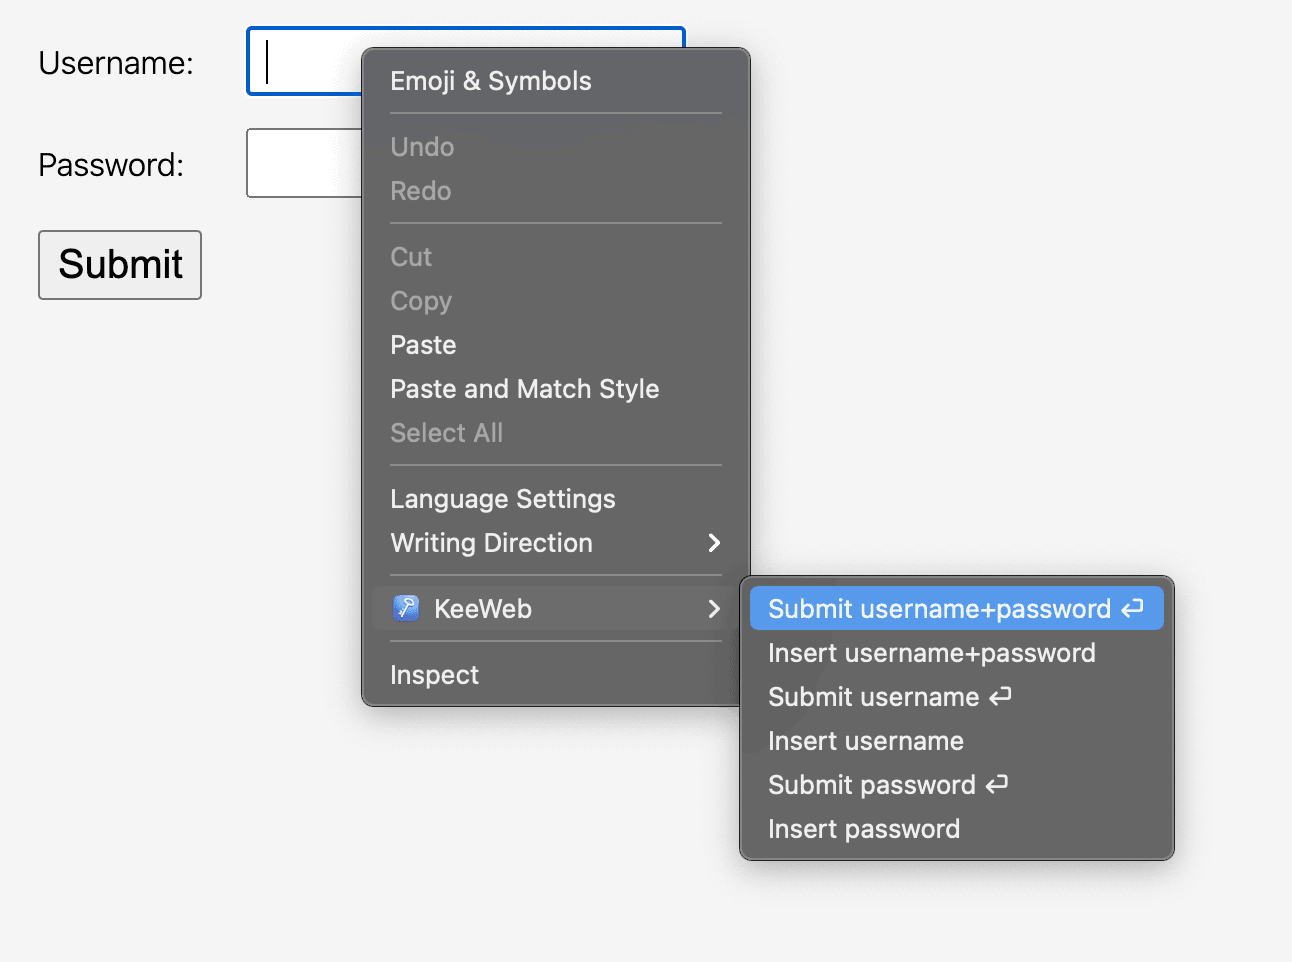
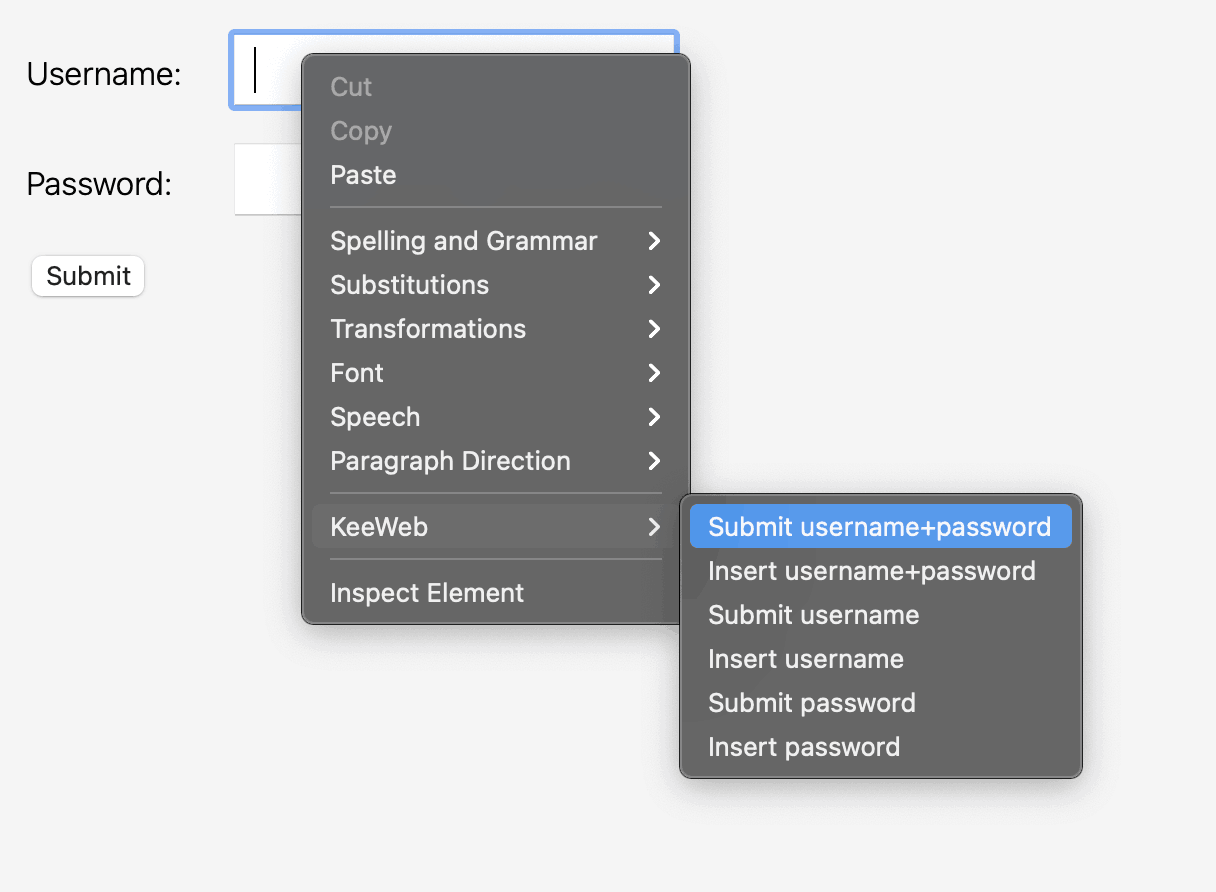
safari customizations

Changed region(s): [[0.1875, 0.0, 0.9375, 0.9081], [0.0, 0.1513, 0.1562, 0.333], [0.0312, 0.0605, 0.1562, 0.0908]]

diff --git a/src/background/ui.ts b/src/background/ui.ts
@@ -1,4 +1,5 @@
 import { runCommand } from './commands';
+import { supportsUnicodeMenus } from 'common/features';
 
 export function createUIMenus(): void {
     chrome.contextMenus.onClicked.addListener(async (e, tab) => {
@@ -11,6 +12,8 @@ export function createUIMenus(): void {
         await runCommand({ command, tab, url, frameId });
     });
 
+    const submitSuffix = supportsUnicodeMenus ? ' ⏎' : '';
+
     chrome.contextMenus.create(
         {
             id: 'keeweb-options',
@@ -21,7 +24,7 @@ export function createUIMenus(): void {
             chrome.contextMenus.create({
                 id: 'submit-username-password',
                 parentId: 'keeweb-options',
-                title: `${chrome.i18n.getMessage('cmdSubmitUsernamePassword')} ⏎`,
+                title: `${chrome.i18n.getMessage('cmdSubmitUsernamePassword')}${submitSuffix}`,
                 contexts: ['editable']
             });
             chrome.contextMenus.create({
@@ -33,7 +36,7 @@ export function createUIMenus(): void {
             chrome.contextMenus.create({
                 id: 'submit-username',
                 parentId: 'keeweb-options',
-                title: `${chrome.i18n.getMessage('cmdSubmitUsername')} ⏎`,
+                title: `${chrome.i18n.getMessage('cmdSubmitUsername')}${submitSuffix}`,
                 contexts: ['editable']
             });
             chrome.contextMenus.create({
@@ -45,7 +48,7 @@ export function createUIMenus(): void {
             chrome.contextMenus.create({
                 id: 'submit-password',
                 parentId: 'keeweb-options',
-                title: `${chrome.i18n.getMessage('cmdSubmitPassword')} ⏎`,
+                title: `${chrome.i18n.getMessage('cmdSubmitPassword')}${submitSuffix}`,
                 contexts: ['editable']
             });
             chrome.contextMenus.create({

diff --git a/src/options/components/usage.tsx b/src/options/components/usage.tsx
@@ -1,14 +1,22 @@
 import { FunctionComponent } from 'preact';
 import { res } from 'options/utils';
+import { canEditShortcuts } from 'common/features';
+import { model } from 'options/settings-model';
 
 const Usage: FunctionComponent = () => {
+    const defaultShortcut = model.shortcuts.find((cmd) => cmd.name === 'submit-auto')?.shortcut;
+
     return (
         <>
             <h2 id="usage">{res('optionsUsage')}</h2>
             <p>{res('optionsUsageIntro')}</p>
             <p>{res('optionsUsageButton')}</p>
             <img srcset="../img/button.png 2x" alt="button" />
-            <p>{res('optionsUsageShortcut')}</p>
+            <p>
+                {canEditShortcuts
+                    ? res('optionsUsageShortcut')
+                    : res('optionsUsageShortcutNoChange', defaultShortcut)}
+            </p>
             <p>{res('optionsUsageMenu')}</p>
             <img srcset="../img/menu.png 2x" alt="button" />
         </>

diff --git a/src/options/components/shortcuts.tsx b/src/options/components/shortcuts.tsx
@@ -1,6 +1,7 @@
 import { FunctionComponent } from 'preact';
 import { res } from 'options/utils';
 import { model } from 'options/settings-model';
+import { canEditShortcuts } from 'common/features';
 
 const Shortcuts: FunctionComponent = () => {
     const openShortcuts = (e: Event) => {
@@ -11,7 +12,11 @@ const Shortcuts: FunctionComponent = () => {
     return (
         <>
             <h2 id="shortcuts">{res('optionsShortcuts')}</h2>
-            <p>{res('optionsShortcutsDescription')}</p>
+            <p>
+                {canEditShortcuts
+                    ? res('optionsShortcutsDescription')
+                    : res('optionsShortcutsDescriptionNoChange')}
+            </p>
             <ul>
                 {model.shortcuts.map((command) => (
                     <li key={command.name}>

diff --git a/src/options/components/connect/connect-state.tsx b/src/options/components/connect/connect-state.tsx
@@ -2,6 +2,7 @@ import { FunctionComponent } from 'preact';
 import { res } from 'options/utils';
 import { model } from 'options/settings-model';
 import { BackendConnectionState } from 'common/backend-connection-state';
+import { canUseOnlyAppConnection } from 'common/features';
 
 const ConnectState: FunctionComponent = () => {
     const state = model.backendConnectionState;
@@ -12,7 +13,7 @@ const ConnectState: FunctionComponent = () => {
 
     return (
         <>
-            {model.canUseOnlyApp ? (
+            {canUseOnlyAppConnection ? (
                 <p>
                     {res('optionsConnectionModeAppOnly')}{' '}
                     <a

diff --git a/src/options/components/connect/connection-block.tsx b/src/options/components/connect/connection-block.tsx
@@ -4,12 +4,13 @@ import { model } from 'options/settings-model';
 import { ConnectionWeb } from './connection-web';
 import { ConnectMode } from './connect-mode';
 import { ConnectState } from './connect-state';
+import { canUseOnlyAppConnection } from 'common/features';
 
 const ConnectionBlock: FunctionComponent = () => {
     return (
         <>
             <h2 id="connection">{res('optionsConnection')}</h2>
-            {model.canUseOnlyApp ? null : <ConnectMode />}
+            {canUseOnlyAppConnection ? null : <ConnectMode />}
             {model.useWebApp ? <ConnectionWeb /> : null}
             <ConnectState />
         </>

diff --git a/src/options/settings-model.ts b/src/options/settings-model.ts
@@ -7,8 +7,6 @@ import { noop } from 'common/utils';
 class SettingsModel extends EventEmitter {
     readonly defaultKeeWebUrl = 'https://app.keeweb.info/';
 
-    private readonly _isSafari = location.origin.includes('safari');
-
     private _loaded = false;
     private _canAccessKeeWebTab: boolean;
     private _keeWebUrl: string;
@@ -77,10 +75,6 @@ class SettingsModel extends EventEmitter {
 
     get loaded(): boolean {
         return this._loaded;
-    }
-
-    get canUseOnlyApp(): boolean {
-        return this._isSafari;
     }
 
     get useNativeApp(): boolean {

diff --git a/src/options/utils.ts b/src/options/utils.ts
@@ -1,5 +1,5 @@
-function res(name: string): string {
-    return chrome.i18n.getMessage(name) || name;
+function res(name: string, ...substitutions: string[]): string {
+    return chrome.i18n.getMessage(name, substitutions.length ? substitutions : undefined) || name;
 }
 
 export { res };

diff --git a/src/common/features.ts b/src/common/features.ts
@@ -1,0 +1,5 @@
+const isSafari = location.origin.includes('safari');
+
+export const supportsUnicodeMenus = !isSafari;
+export const canUseOnlyAppConnection = isSafari;
+export const canEditShortcuts = !isSafari;
